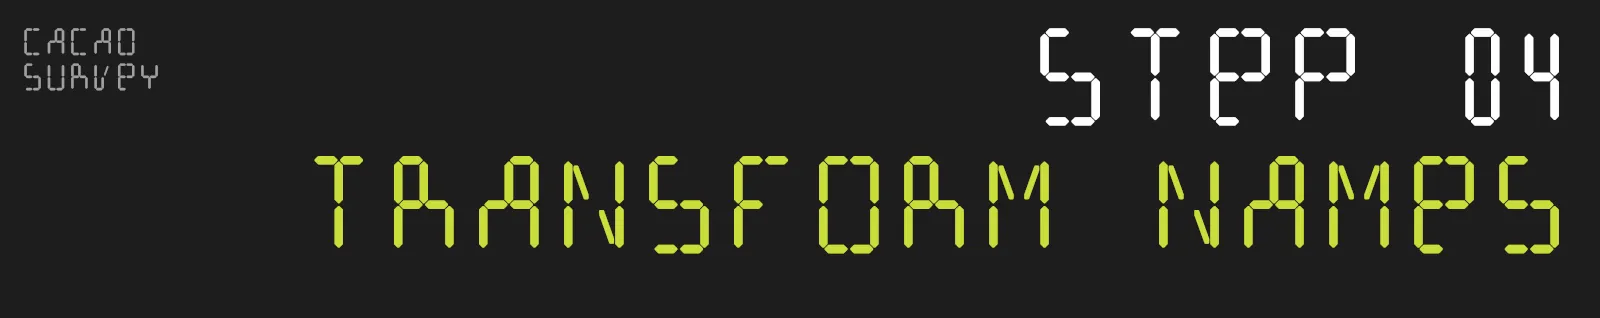
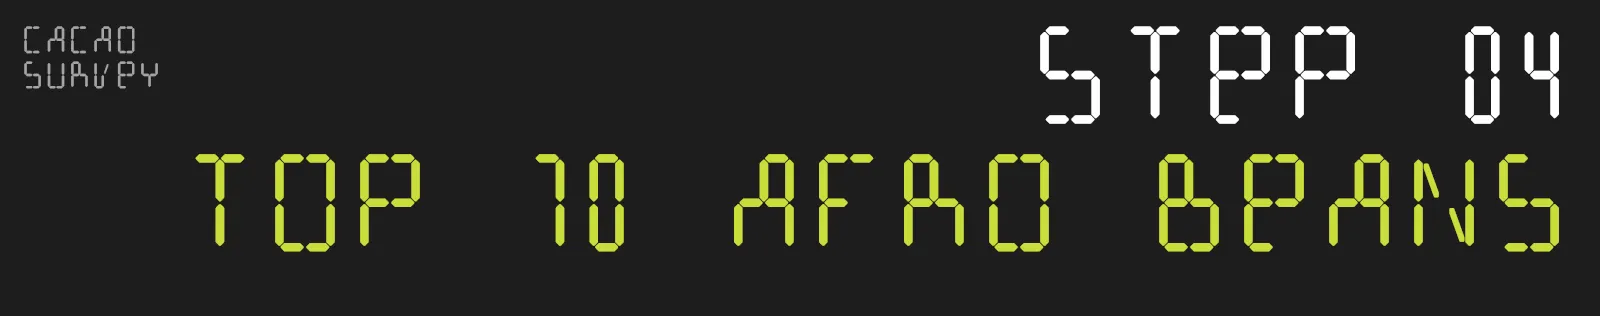
Commit 19 - more work on choglud. finished the analysis part. next is the design of survey terminal

diff --git a/content/portfolio/work8 - chocolate survey.md b/content/portfolio/work8 - chocolate survey.md
@@ -448,21 +448,63 @@ Will the top African characteristics also be listed in the "sweet" and "fruity" 
 
 
 
-![Step 4: Transform Names][6]  
+![Step 4: African Grown][6]  
 
-(Still needed?)  
-(Might need to change the title card to "African Beans")
+I used the chunk below to extract results where the beans were grown in Africa (or AU states), ranking them according to their survey rating:
 
-![Actual Top 10][7]  
+```{r}
+chocolate_africa_ranked <- chocolate_africa[order(chocolate_africa$rating, decreasing = TRUE),]
+```  
 
-(Still needed?)  
-(Might need to change to "Top 10 African Beans")
+```{r}
+> head(chocolate_africa_ranked, 10)
+     ref company_manufacturer company_location review_date country_of_bean_origin specific_bean_origin_or_bar_name cocoa_percent
+39   629               Bonnat           France        2011             Madagascar         Madagascar, 100% criollo           75%
+59  2514              Chokola           U.S.A.        2020             Madagascar        Bejofo, 2019 H., Batch 20           67%
+88  2040               Domori            Italy        2018               Tanzania                         Tanzania           70%
+110  915               Fresco           U.S.A.        2012             Madagascar   Sambirano Valley, #216, MR, LC           74%
+121 1642        Georgia Ramon          Germany        2015                  Ghana                      ABOCFA Coop           70%
+166  284  Madecasse (Cinagra)       Madagascar        2008             Madagascar                       Madagascar           63%
+177 1177               Matale        Australia        2013             Madagascar                      Somia, 2013           68%
+218  196               Patric           U.S.A.        2007             Madagascar                       Madagascar           70%
+220  331               Patric           U.S.A.        2009             Madagascar                       Madagascar           75%
+223  141     Pierre Marcolini          Belgium        2007             Madagascar   Sambirano, Ambanja, Madagascar           72%
+     ingredients   most_memorable_characteristics rating
+39      3- B,S,C       fatty, spicy, gentle roast      4
+59        2- B,S cherry, perfectly balanced roast      4
+88        2- B,S            creamy, sticky, fruit      4
+110     3- B,S,C       caramel, nuts, dried fruit      4
+121   4- B,S,C,L                cocoa and coconut      4
+166 5- B,S,C,V,L            intense, nutty, cocoa      4
+177     3- B,S,C                sticky, red fruit      4
+218     3- B,S,C mild tart, wine, red fruit, long      4
+220     3- B,S,C     simple red berry, rich, long      4
+223 5- B,S,C,V,L      tangy, floral, spicy, cocoa      4  
+```  
 
-![Word Cloud of the all the (parent) companies][8]   
+What I found is that ***Madagascar*** featured heavily throughout, especially in the top positions. The memorable characteristics are relatively similar to the French results.  
 
-(If necessary)  
+Madagascar also has the added benefit of being a close neighbour of Mzansi. Keeping it local to Madagascar with regards to the company to contact, the best (and only) option is [***Beyond Good***](https://beyondgood.com/) - formerly Madecasse(Cinagra).  
 
-TBC :D  
+![Gif of Beyond Good Website][7]  
+
+This concludes the data exploration.  
+
+![Step 5: Designing the Survey Terminal][8]  
+
+The 3D segment of this looks at creating a survey terminal. The idea is that these would be placed at popular chain stores and they would issue small samples for visitors to taste and comment on.  
+
+![Refsheet for Survey Terminal][9]
+
+Some design considerations I've come up with are:  
+  - no buttons or touch screen - to minimise the need for cleaning
+  - motion sensors to allow gesturing
+  - video and audio recording for detailed comment/feedback  
+  
+I see it being a bougie vending machine.. 
+
+TBC
+
 
 [1]: /img/portfolio/W8/w8001.webp
 [2]: /img/portfolio/W8/w8002.webp
@@ -472,3 +514,4 @@ TBC :D
 [6]: /img/portfolio/W8/w8006.webp
 [7]: /img/portfolio/W8/w8007.webp
 [8]: /img/portfolio/W8/w8008.webp
+[9]: /img/portfolio/W8/w8009.webp
